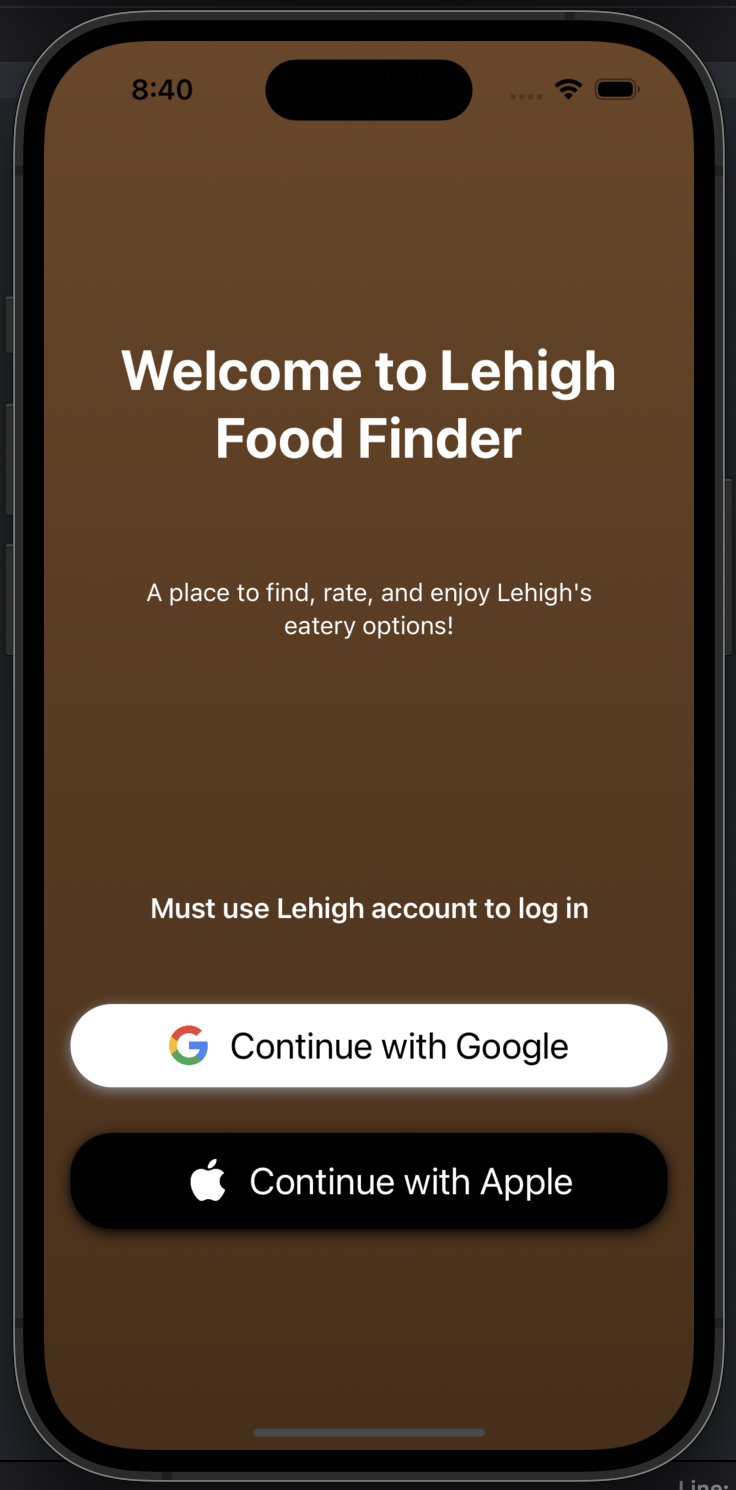
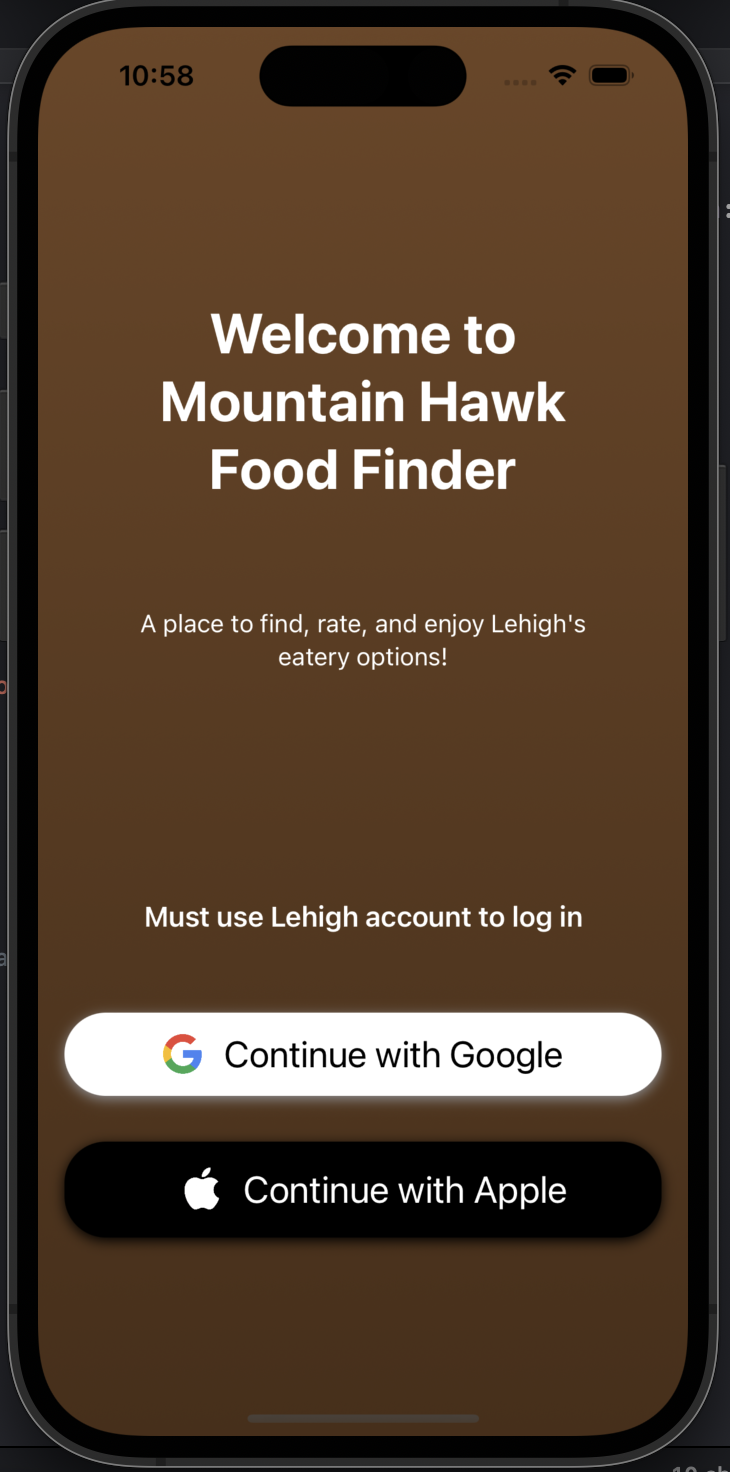
Updated directory structure

diff --git a/index.html b/index.html
@@ -54,9 +54,9 @@
                                 <ul>
                                     <li>Honors Computer Science and Business B.S. Lehigh University, 2021 - 2025</li>
                                 </ul>
-                                <B> Programming languages</B>: Proficient in Java, Python, HTML CSS & Javascript, C&C++, SQL. <br>
-                                <B>Tools</B>: Git, Postman, Boot Spring, Linux, MongoDB, and Firebase <br>
-                                <B> Frameworks and other technologies</B>: React.js, Node.js, Spark, Django, and Agile development methodologies
+                                <B> Programming languages</B>: Proficient in Java, Python, HTML, CSS, Swift, Javascript, C++, SQL <br>
+                                <B>Tools</B>: Git, Postman, Spring Boot, Linux, OAuth, and Firebase <br>
+                                <B> Frameworks and other technologies</B>: React.js, Node.js, Pandas, NumPy, and Agile development methodologies
                             </div>
                             <div id="hitokoto"></div>
                         </div>
@@ -83,7 +83,7 @@
                     <div class="article-container">
                         <h2>About me</h2>
                         <div class="tool">
-                            <a target="_blank" style="color: black;">I'm a dedicated full-stack web developer focused on simplifying user interactions with technology. With experience in designing accessible scheduling models and streamlining processes, I've developed a MLB Game Predictor website and the Food Finder at Lehigh iOS app. Now, I'm excited to create user-friendly UX/UI experiences and build secure, scalable backend systems. My commitment to staying current with industry trends drives my pursuit of professional growth. I'm actively seeking opportunities to contribute my skills to innovative web development and software engineering projects.</a>
+                            <a target="_blank" style="color: black;">I'm a dedicated full-stack web developer focused on simplifying user interactions with technology. With experience in designing accessible scheduling models and streamlining processes, I've developed a MLB Game Predictor website and the Mountain Hawk Food Finder iOS app. Now, I'm excited to create user-friendly UX/UI experiences and build secure, scalable backend systems. My commitment to staying current with industry trends drives my pursuit of professional growth. I'm actively seeking opportunities to contribute my skills to innovative web development and software engineering projects.</a>
                             <br>
                         </div>
                             <hr>
